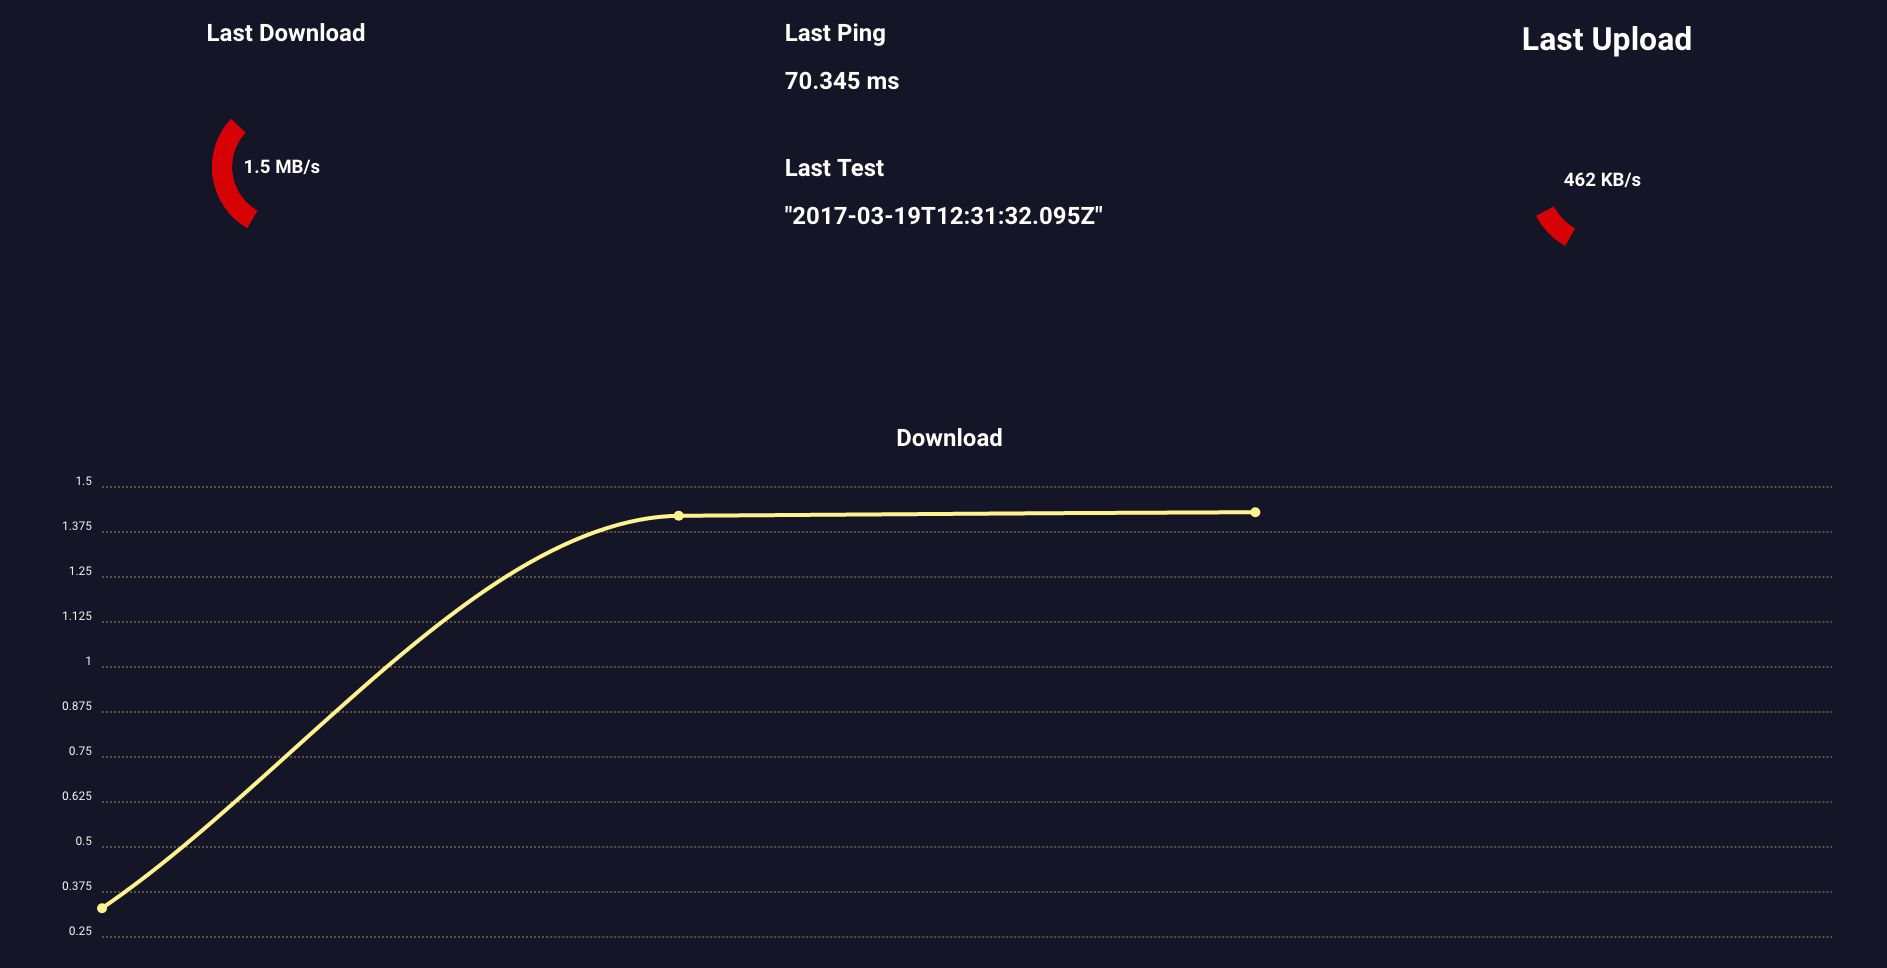
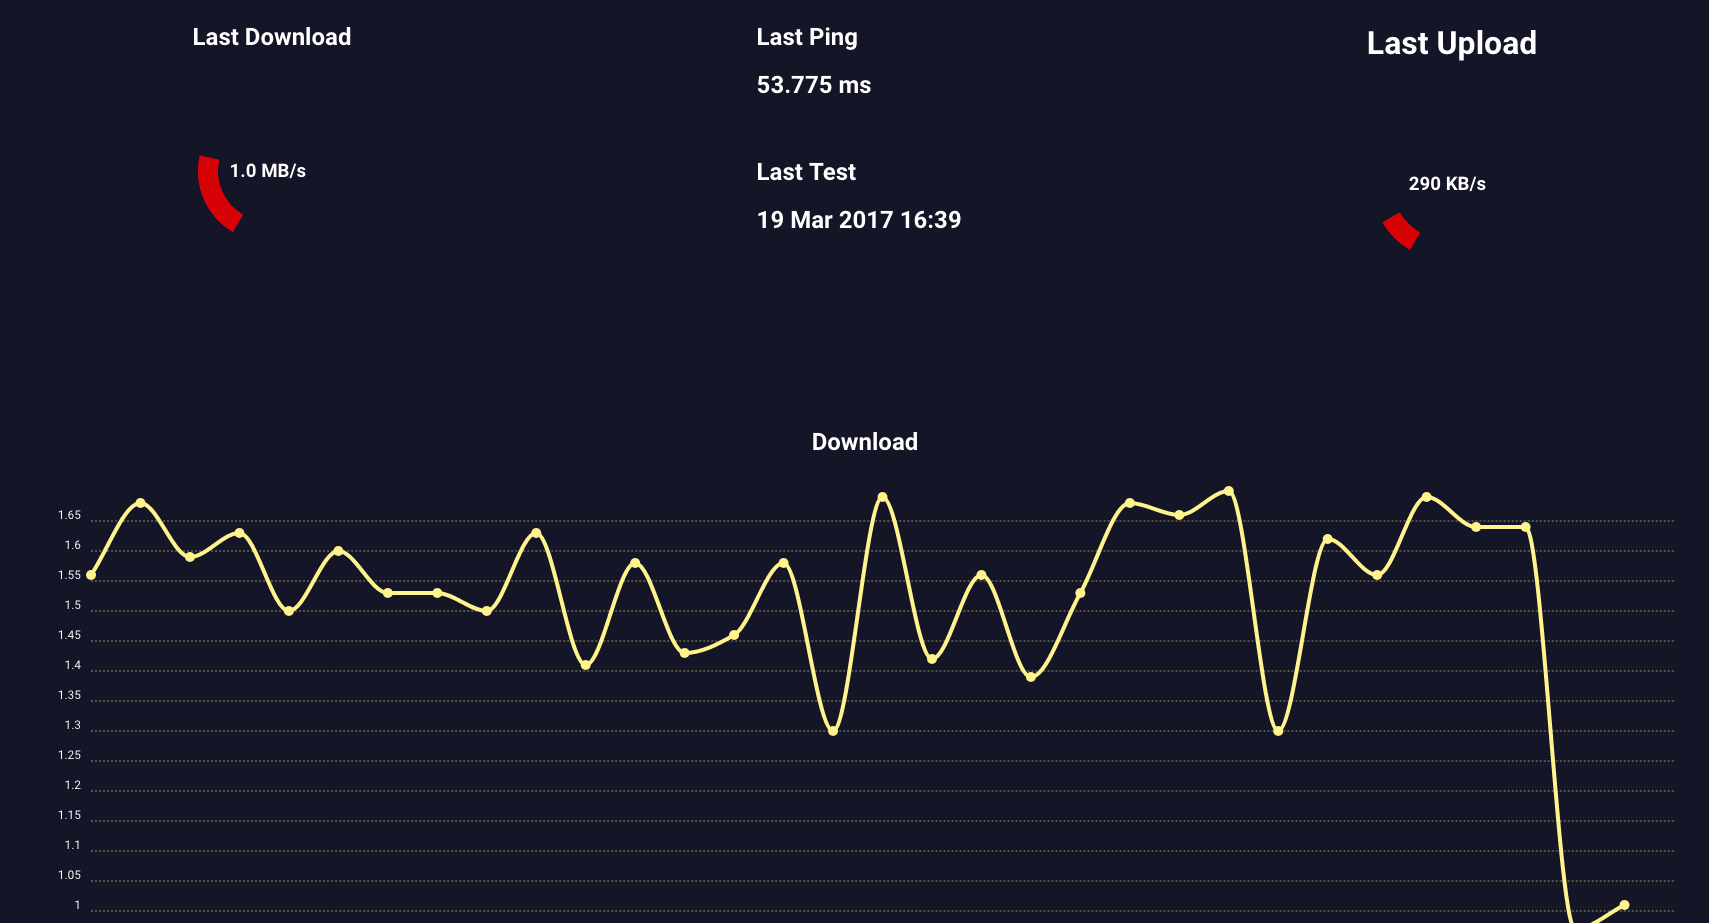
Fix shit

diff --git a/app/main.js b/app/main.js
@@ -15,6 +15,8 @@ import "chartist-plugin-fill-donut";
 
 import io from 'socket.io-client';
 
+import moment from 'moment';
+
 const app = angular.module('SpeedTest', [ngMaterial, uiRouter]);
 
 app.controller('Main', function ($scope, Socket) {
@@ -182,7 +184,7 @@ app.controller('home', function ($scope, Socket, $rootScope, $state) {
                     offsetY : 10,
                     offsetX: -2
                 }, {
-                    content: '<h3>'+ Socket.Download[Socket.Download.length > 0 ? Socket.Download.length - 1 : 0].meta || 0 +'</h3>'
+                    content: '<h3 id="LastDownloadChartH3">'+ Socket.Download[Socket.Download.length > 0 ? Socket.Download.length - 1 : 0].meta || 0 +'</h3>'
                 }]
             })
         ],
@@ -204,13 +206,14 @@ app.controller('home', function ($scope, Socket, $rootScope, $state) {
                     offsetY : 10,
                     offsetX: -2
                 }, {
-                    content: '<h3>'+ Socket.Upload[Socket.Upload.length > 0 ? Socket.Upload.length - 1 : 0].meta || 0 +'</h3>'
+                    content: '<h3 id="LastUploadChartH3">'+ Socket.Upload[Socket.Upload.length > 0 ? Socket.Upload.length - 1 : 0].meta || 0 +'</h3>'
                 }]
             })
         ],
     });
     $scope.LastPing = Socket.Ping[Socket.Ping.length > 0 ? Socket.Ping.length - 1 : 0].value || 0;
-    $scope.LastTest = new Date(Socket.labels[Socket.labels.length > 0 ? Socket.labels.length - 1 : 0] || 0);
+    let d = new Date(Socket.labels[Socket.labels.length > 0 ? Socket.labels.length - 1 : 0] || 0);
+    $scope.LastTest = moment(d).format("DD MMM YYYY kk:mm");
     $scope.safeApply();
     $rootScope.$on('updateChart', () => {
         DLch.update({
@@ -242,11 +245,12 @@ app.controller('home', function ($scope, Socket, $rootScope, $state) {
                         offsetY : 10,
                         offsetX: -2
                     }, {
-                        content: '<h3>'+ Socket.Download[Socket.Download.length > 0 ? Socket.Download.length - 1 : 0].meta || 0 +'</h3>'
+                        content: '<h3 id="LastDownloadChartH3">'+ Socket.Download[Socket.Download.length > 0 ? Socket.Download.length - 1 : 0].meta || 0 +'</h3>'
                     }]
                 })
             ],
         });
+        document.getElementById('LastDownloadChartH3').innerHTML = Socket.Download[Socket.Download.length > 0 ? Socket.Download.length - 1 : 0].meta || 0;
         LastUploadChart.update({
             series: [Socket.Upload[Socket.Upload.length > 0 ? Socket.Upload.length - 1 : 0].value || 0 ],
             labels: ['', '']
@@ -264,13 +268,15 @@ app.controller('home', function ($scope, Socket, $rootScope, $state) {
                         offsetY : 10,
                         offsetX: -2
                     }, {
-                        content: '<h3>'+ Socket.Upload[Socket.Upload.length > 0 ? Socket.Upload.length - 1 : 0].meta || 0 +'</h3>'
+                        content: '<h3 id="LastUploadChartH3">'+ Socket.Upload[Socket.Upload.length > 0 ? Socket.Upload.length - 1 : 0].meta || 0 +'</h3>'
                     }]
                 })
             ],
         });
+        document.getElementById('LastUploadChartH3').innerHTML = Socket.Upload[Socket.Upload.length > 0 ? Socket.Upload.length - 1 : 0].meta || 0;
         $scope.LastPing = Socket.Ping[Socket.Ping.length > 0 ? Socket.Ping.length - 1 : 0].value || 0;
-        $scope.LastTest = new Date(Socket.labels[Socket.labels.length > 0 ? Socket.labels.length - 1 : 0] || 0);
+        let d = new Date(Socket.labels[Socket.labels.length > 0 ? Socket.labels.length - 1 : 0] || 0);
+        $scope.LastTest = moment(d).format("DD MMM YYYY kk:mm");
         $scope.safeApply();
         console.log("Chart updated.");
     });
@@ -310,43 +316,11 @@ function benchmark(method) {
     });
 }
 
-function ctPointLabels(options) {
-    return function ctPointLabels(chart) {
-        var defaultOptions = {
-            labelClass: 'ct-label',
-            labelOffset: {
-                x: 0,
-                y: -10
-            },
-            textAnchor: 'middle'
-        };
-
-        options = Chartist.extend({}, defaultOptions, options);
-
-        if(chart instanceof Chartist.Line) {
-            chart.on('draw', function(data) {
-                if(data.type === 'point') {
-                    data.group.elem('text', {
-                        x: data.x + options.labelOffset.x,
-                        y: data.y + options.labelOffset.y,
-                        style: 'text-anchor: ' + options.textAnchor
-                    }, options.labelClass).text(data.meta);
-                }
-            });
-        }
-    }
-}
 
 Array.prototype.sortByDateGetBiggerGerman = function () {
     return this.sort(function (a, b) {
-        if (parseDate(a.createdAt).getTime() > parseDate(b.createdAt).getTime()) return 1;
-        if (parseDate(a.createdAt).getTime() < parseDate(b.createdAt).getTime()) return -1;
+        if (new Date(a.createdAt).getTime() > new Date(b.createdAt).getTime()) return 1;
+        if (new Date(a.createdAt).getTime() < new Date(b.createdAt).getTime()) return -1;
         return 0;
     });
 };
-
-function parseDate(input) {
-    var parts = input.match(/(\d+)/g);
-    // note parts[1]-1
-    return new Date(parts[2], parts[1]-1, parts[0]);
-}

diff --git a/lib/SpeedtestCLIWrapper.js b/lib/SpeedtestCLIWrapper.js
@@ -9,9 +9,12 @@ class SpeedTestCLIWrapper {
         this.test = this.test.bind(this);
     }
 
-    test(){
+    test(path){
         const self = this;
-        return child_process.exec(`${self.options.speedtest_cli_path || 'speedtest-cli'} --version`, self.options.exec_options)
+        if (path){
+            console.log("Use " + path);
+        }
+        return child_process.exec(`${self.options.speedtest_cli_path || path || 'speedtest-cli'} --version`, self.options.exec_options)
             .then(result => {
                 if (semver.valid(semver.clean(result.stdout.trim())) && (semver.gt(semver.clean(result.stdout.trim()), '1.0.2') || semver.eq(semver.clean(result.stdout.trim()), '1.0.2'))){
                     return Promise.resolve();
@@ -19,7 +22,7 @@ class SpeedTestCLIWrapper {
                     return Promise.reject(`Something went wrong. Maybe you have a too old version. v1.0.2 or higher. STDOUT: ${result.stdout}`);
                 }
             }).then(() => {
-                return child_process.exec(`${self.options.speedtest_cli_path || 'speedtest-cli'} --json`, self.options.exec_options);
+                return child_process.exec(`${self.options.speedtest_cli_path || path || 'speedtest-cli'} --json`, self.options.exec_options);
             }).then(result => {
                 return new Promise((resolve, reject) => {
                     return json.parse(result.stdout.trim()).then(result => {

diff --git a/server.js b/server.js
@@ -36,6 +36,12 @@ const ioError = require('debug')('IO:error');
 
 const speedTest = require('speedtest-net');
 
+try {
+    const config = require('./config.json');
+} catch (e) {
+    console.log("No config. Ignore this shit if it works.");
+}
+
 const uuid = require('node-uuid');
 
 const TaskError = require('debug')('Task:error');
@@ -79,7 +85,7 @@ function test() {
         createdAt: new Date(),
         finished: false
     }).then(() => {
-        return SpeedTestCLIWrapper.test().then(result => {
+        return SpeedTestCLIWrapper.test(config.command).then(result => {
             TaskDebug(`Test (${id}) finished. Result: ${result.ping} | ${result.download} | ${result.upload} => Add to database`);
             return db.get(id).then(doc => {
                 doc.download = result.download;
@@ -108,7 +114,7 @@ function test() {
 }
 setInterval(function () {
     test();
-}, 5 * 60 * 1000);
+}, config.interval || 1 * 60 * 1000);
 test();
 io.on('connection', function (client) {
     ioDebug(`New client with id ${client.conn.id}`);
